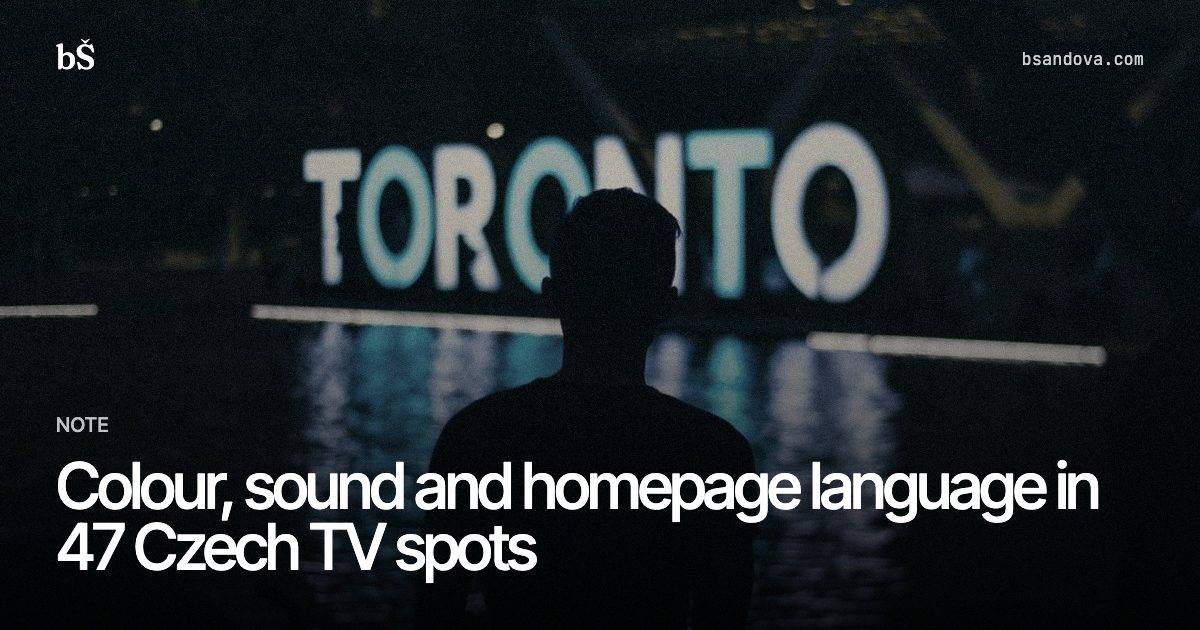
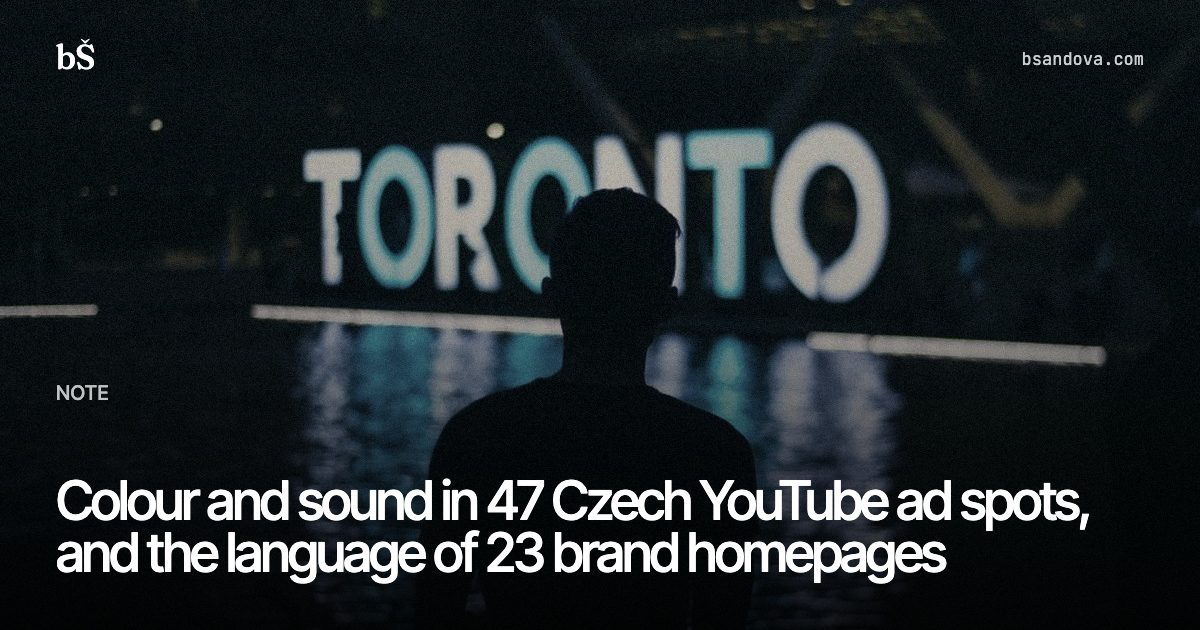
docs(site): brand reflection, FilmRunner and Atlantic corrections

Changed region(s): [[0.0308, 0.7238, 0.925, 0.9349], [0.0308, 0.6635, 0.0925, 0.6937], [0.0308, 0.6032, 0.0925, 0.6333]]

diff --git a/texts/brand-reflection.html b/texts/brand-reflection.html
@@ -3,10 +3,10 @@
 <head>
 <meta charset="utf-8">
 <meta name="viewport" content="width=device-width, initial-scale=1">
-<title>Colour and sound in 47 Czech YouTube ad spots, and the language of 24 brand homepages · Barbora Šandová</title>
-<meta name="description" content="A note indexing four exploratory studies of Czech advertising: the colour and sound of 47 ad spots from 13 brands' YouTube channels, the language of 24 brand homepages, and a view-count prediction checked late.">
-<meta property="og:title" content="Colour and sound in 47 Czech YouTube ad spots, and the language of 24 brand homepages">
-<meta property="og:description" content="A note indexing four exploratory studies of Czech advertising: the colour and sound of 47 ad spots from 13 brands' YouTube channels, the language of 24 brand homepages, and a view-count prediction checked late.">
+<title>Colour and sound in 47 Czech YouTube ad spots, and the language of 23 brand homepages · Barbora Šandová</title>
+<meta name="description" content="A note indexing four exploratory studies of Czech advertising: the colour and sound of 47 ad spots from 13 brands' YouTube channels, the language of 23 brand homepages, and a view-count prediction checked late.">
+<meta property="og:title" content="Colour and sound in 47 Czech YouTube ad spots, and the language of 23 brand homepages">
+<meta property="og:description" content="A note indexing four exploratory studies of Czech advertising: the colour and sound of 47 ad spots from 13 brands' YouTube channels, the language of 23 brand homepages, and a view-count prediction checked late.">
 <meta property="og:type" content="article">
 <meta property="og:image" content="https://bsandova.com/assets/og/brand-reflection.jpg">
 <meta property="og:image:width" content="1200">
@@ -37,7 +37,7 @@
 </style>
 
 <!-- ld --><link rel="alternate" type="application/atom+xml" title="Barbora Šandová" href="/feed.xml">
-<script type="application/ld+json">{"@context": "https://schema.org", "@type": "Article", "headline": "Colour and sound in 47 Czech YouTube ad spots, and the language of 24 brand homepages", "description": "A note indexing four exploratory studies of Czech advertising: the colour and sound of 47 ad spots from 13 brands' YouTube channels, the language of 24 brand homepages, and a view-count prediction checked late.", "url": "https://bsandova.com/texts/brand-reflection", "image": "https://bsandova.com/assets/og/brand-reflection.jpg", "dateModified": "2026-09-29T12:09:51+02:00", "author": {"@type": "Person", "name": "Barbora Šandová", "url": "https://bsandova.com/"}}</script><!-- /ld -->
+<script type="application/ld+json">{"@context": "https://schema.org", "@type": "Article", "headline": "Colour and sound in 47 Czech YouTube ad spots, and the language of 23 brand homepages", "description": "A note indexing four exploratory studies of Czech advertising: the colour and sound of 47 ad spots from 13 brands' YouTube channels, the language of 23 brand homepages, and a view-count prediction checked late.", "url": "https://bsandova.com/texts/brand-reflection", "image": "https://bsandova.com/assets/og/brand-reflection.jpg", "dateModified": "2026-09-29T12:09:51+02:00", "author": {"@type": "Person", "name": "Barbora Šandová", "url": "https://bsandova.com/"}}</script><!-- /ld -->
 </head>
 <body>
 <div class="top"><b><a href="../" aria-label="bŠ, bsandova.com, home">bŠ</a></b><nav><a href="../#work">Work</a><a href="../#works">All work</a><a href="../#about">About</a><a href="../ask/" class="ask-link">Ask</a><a href="../#contact">Contact</a></nav><span class="tr">advertising · brand reflection · 2026 · en</span></div>
@@ -45,13 +45,13 @@
 <article class="text">
 <header class="text-head">
   <p class="kicker">Note · 14 September 2026 · Czech advertising, four studies, spring 2026</p>
-  <h1>Colour and sound in 47 Czech YouTube ad spots, <em>and the language of 24 brand homepages</em></h1>
+  <h1>Colour and sound in 47 Czech YouTube ad spots, <em>and the language of 23 brand homepages</em></h1>
   <p class="deck">An index of four exploratory studies of Czech advertising from spring 2026, which measure the colour and sound of 47 ad spots from 13 brands' YouTube channels and the homepage language of the same market.</p>
   <dl class="facts">
     <div><dt>spots · brands · frames</dt><dd>47 · 13 · 2 251 <small>one frame per second</small></dd></div>
     <div><dt>colour: brand-led · between · world-led</dt><dd>16 · 20 · 11 <small>hue distance to the brand's anchor colour; hand-set cut-offs at 20° and 100°</small></dd></div>
     <div><dt>sound: voice-led · music-led</dt><dd>44 · 3 <small>speech, or non-speech sound, over half of runtime</small></dd></div>
-    <div><dt>homepages scraped</dt><dd>24 of 30 <small>6 blocked or empty</small></dd></div>
+    <div><dt>homepages scraped</dt><dd>23 of 30 <small>7 blocked or empty</small></dd></div>
   </dl>
 </header>
 <details class="tldr" open>
@@ -59,13 +59,13 @@
   <ul>
     <li>Measured against each brand's own anchor colour, 16 of 47 spots keep their dominant hue within 20° and 11 lie more than 100° away. Speech fills more than half the runtime in 44 of 47 spots (median 76 %).</li>
     <li>The colour groups rest on hand-set cut-offs and one hand-picked anchor colour per brand, and one brand, Albert, supplies 5 of the 11 spots beyond 100°; with a 90° cut-off that group is 13.</li>
-    <li>A view-count prediction was checked late: one claim is indeterminate and the other not supported.</li>
+    <li>A view-count prediction was checked at 119 days instead of the registered 30, so neither claim was tested at the registered window; over those 119 days the "coherent" Pilsner spot gained the fewest views, a descriptive count.</li>
     <li>Every number is a descriptive count on one corpus of YouTube uploads.</li>
     <li>The homepage map does not establish a shared register between brands.</li>
   </ul>
 </details>
 <dl class="meta">
-  <div><dt>published</dt><dd>14 September 2026 · updated 29 September 2026 · <a href="../changelog/#brand-reflection">version 2</a></dd></div>
+  <div><dt>published</dt><dd>14 September 2026 · updated 9 October 2026 · <a href="../changelog/#brand-reflection">version 3</a></dd></div>
   <div><dt>work since</dt><dd>April 2026</dd></div>
 </dl>
 <details class="meta-more">
@@ -74,7 +74,7 @@
   <div><dt>status</dt><dd>note</dd></div>
   <div><dt>data</dt><dd>47 spots from 13 brands' YouTube channels and the homepages of 30 Czech brands, both collected before 18 May 2026 (exact access dates not recorded); video and page text not redistributed; derived spot-level metrics (<code>spots.parquet</code>, <code>spots_audio.parquet</code>) CC BY 4.0 in the study repositories</dd></div>
   <div><dt>code</dt><dd><a href="https://github.com/sandovabarbora/brand-reflection-cz">brand-reflection-cz</a> <code>79ebebe</code>, <a href="https://github.com/sandovabarbora/color-fingerprint-cz">color-fingerprint-cz</a> <code>49d2614</code>, <a href="https://github.com/sandovabarbora/sound-fingerprint-cz">sound-fingerprint-cz</a> <code>5421429</code>, <a href="https://github.com/sandovabarbora/strategic-topography-cz">strategic-topography-cz</a> <code>17c8eb5</code> (MIT); the figures: <code>python3 tools/charts/brand_reflection.py</code> in the site repository</dd></div>
-  <div><dt>cite as</dt><dd>Šandová, B. (2026). <i>Colour and sound in 47 Czech YouTube ad spots, and the language of 24 brand homepages</i>. bsandova.com/texts/brand-reflection, version 2.</dd></div>
+  <div><dt>cite as</dt><dd>Šandová, B. (2026). <i>Colour and sound in 47 Czech YouTube ad spots, and the language of 23 brand homepages</i>. bsandova.com/texts/brand-reflection, version 3.</dd></div>
   <div><dt>licence</dt><dd>code MIT; text, figures and data CC BY 4.0</dd></div>
 </dl>
 </details>
@@ -96,7 +96,7 @@
   <img src="../assets/brand/03-voice-music.svg" alt="47 stacked bars of voice share and non-speech share sorted by non-speech share; three bars cross the 50 percent line." loading="lazy">
   <figcaption><b>fig. 2</b> · Voice share and non-speech share (music, effects and ambience) of runtime (%), one bar per spot, n = 47, sorted by non-speech share; dotted line at 50 %. No band. Recomputed from <code>spots_audio.parquet</code> (sound-fingerprint-cz, May 2026).</figcaption>
 </figure>
-<p>The homepage study scraped the title, description, first headings and first paragraphs of 30 brand homepages, of which 24 succeeded. The texts were turned into vectors with the language model <code>multilingual-e5-base</code>, projected onto a two-dimensional map with UMAP and grouped with K-means (k = 4). ČSOB, Česká spořitelna, Fio, Air Bank, Komerční banka, Generali, ČEZ and Škoda Auto fall into one cluster, but the words the study lists as setting it apart are <i>banka, škoda, čez, fio, česká</i>, brand and sector names (it does not say how those words were picked), so the cluster may reflect names more than tone of voice. The map's 54 points are the 24 homepages and 30 search-trend phrases, so it shows approximate neighbourhoods rather than distances. The study's own page is titled "Three templates", while its clustering uses k = 4<sup class="cite"><a href="#r7">7</a></sup>. A fourth piece, Spot Scorer, shows any spot's colour and audio metrics against its sector median<sup class="cite"><a href="#r8">8</a></sup>.</p>
+<p>The homepage study scraped the title, description, first headings and first paragraphs of 30 brand homepages, of which 23 returned text (the other 7 were blocked or empty). The texts were turned into vectors with the language model <code>multilingual-e5-base</code>, projected onto a two-dimensional map with UMAP and grouped with K-means into four clusters (k = 4 in the study's configuration; the docstring of its clustering module still says k = 6). ČSOB, Česká spořitelna, Fio, Air Bank, Komerční banka, Generali, ČEZ and Škoda Auto fall into one cluster, but the words the study lists as setting it apart are <i>banka, škoda, čez, fio, česká</i>, brand and sector names (it does not say how those words were picked), so the cluster may reflect names more than tone of voice. The map's 49 points are the 23 homepages and 26 search-trend phrases, so it shows approximate neighbourhoods rather than distances. The study's own page is titled "Three templates", while its clustering produces four clusters<sup class="cite"><a href="#r7">7</a></sup>. A fourth piece, Spot Scorer, shows any spot's colour and audio metrics against its sector median<sup class="cite"><a href="#r8">8</a></sup>.</p>
 <figure data-chart="../assets/brand/charts.json#two-commitments">
   <p class="ch-head">Exploratory: only Pilsner's Alfons is both far from its brand colour and mostly non-speech; Albert's five spots are far from theirs and mostly speech.</p>
   <img src="../assets/brand/01-two-commitments.svg" alt="Scatter of 47 spots: hue distance on the x axis, music share on the y axis; Pilsner Urquell alone in the top right, Albert's five spots at the far right and bottom." loading="lazy">
@@ -116,12 +116,12 @@
 <tr><td>Albert · <i>Gourmet receptury</i></td><td>bottom</td><td class="n">272 017</td><td class="n">273 381</td><td class="n">+1 364</td></tr>
 <tr><td>Vodafone · <i>Nejlepší pevný internet</i></td><td>bottom</td><td class="n">509 694</td><td class="n">511 540</td><td class="n">+1 846</td></tr>
 </tbody></table>
-<p>The Lidl spot was made private before the check. Claim A is indeterminate: the check ran at 119 days instead of the registered 30, so the 30-day increments were never measured. The two measurable coherent spots gained 3 813 views against 3 210 for the muddled pair, and Lidl's missing increment could only add to the coherent side, but over the wrong window. Claim B is not supported: Pilsner gained 44 views and ranks last, whatever the Lidl figure would have been. The check output is not committed (private; not verifiable). As the file itself anticipated, view counts reflect much more than the spot<sup class="cite"><a href="#r10">10</a></sup>.</p>
+<p>The Lidl spot was made private before the check. Claim A was not tested at the registered window: the check ran at 119 days instead of the registered 30, so the 30-day increments were never measured (version 2 labelled it indeterminate). The two measurable coherent spots gained 3 813 views against 3 210 for the muddled pair, and Lidl's missing increment could only add to the coherent side, but over the wrong window. Claim B was not tested at the registered window either; descriptively, over the 119 days Pilsner gained 44 views and ranks last, whatever the Lidl figure would have been (version 2 labelled it not supported). The check output is not committed (private; not verifiable). As the file itself anticipated, view counts reflect much more than the spot<sup class="cite"><a href="#r10">10</a></sup>.</p>
 </section>
 
 <section>
 <h2>What these studies do not show</h2>
-<p>The corpus is selected by what 13 brands upload to YouTube, not by television airtime; two spots were added by hand, and some McDonald's uploads carry Slovak-language titles (the audio language was not checked). Eight brands supply 40 of the 47 spots, so a single brand can dominate a group, as Albert does with 5 of the 11 world-led spots. Sampling at one frame per second misses flash cuts, K-means with k = 5 is a choice, anchor colours are one hand-picked value per brand, and hue distance is poorly defined for near-grey palettes such as AAA Auto's. None of the counts carries an interval. The homepage map rests on 24 of 30 pages and 54 points, and neither Spot Scorer nor any metric here has been validated against an outcome<sup class="cite"><a href="#r5">5</a></sup><sup class="cite"><a href="#r7">7</a></sup>.</p>
+<p>The corpus is selected by what 13 brands upload to YouTube, not by television airtime; two spots were added by hand, and some McDonald's uploads carry Slovak-language titles (the audio language was not checked). Eight brands supply 40 of the 47 spots, so a single brand can dominate a group, as Albert does with 5 of the 11 world-led spots. Sampling at one frame per second misses flash cuts, K-means with k = 5 is a choice, anchor colours are one hand-picked value per brand, and hue distance is poorly defined for near-grey palettes such as AAA Auto's. None of the counts carries an interval. The homepage map rests on 23 of 30 pages and 49 points, and neither Spot Scorer nor any metric here has been validated against an outcome<sup class="cite"><a href="#r5">5</a></sup><sup class="cite"><a href="#r7">7</a></sup>.</p>
 </section>
 
 <section class="refs" id="refs">
@@ -131,9 +131,9 @@
 <li id="r2">Labrecque, L. I. and Milne, G. R. (2012). Exciting red and competent blue: the importance of color in marketing. <i>Journal of the Academy of Marketing Science</i> 40(5), 711–727. <a href="https://doi.org/10.1007/s11747-010-0245-y">doi.org/10.1007/s11747-010-0245-y</a>. Accessed 29 September 2026.</li>
 <li id="r3">Bruner, G. C. (1990). Music, mood, and marketing. <i>Journal of Marketing</i> 54(4), 94–104. <a href="https://doi.org/10.1177/002224299005400408">doi.org/10.1177/002224299005400408</a>. Accessed 29 September 2026.</li>
 <li id="r4">Romaniuk, J. (2018). <i>Building Distinctive Brand Assets</i>. Oxford University Press.</li>
-<li id="r5">Šandová, B. (2026). <i>Brand color or world color: a field study of Czech TV advertising</i>. <a href="https://sandovabarbora.github.io/color-fingerprint-cz/">sandovabarbora.github.io/color-fingerprint-cz</a>; code <a href="https://github.com/sandovabarbora/color-fingerprint-cz">color-fingerprint-cz</a>, commit <code>49d2614</code> (README: corpus rules, 1 fps, K-means k = 5 in CIE-LAB, anchors in <code>config/brands.yaml</code>, limitations). Accessed 29 September 2026.</li>
-<li id="r6">Šandová, B. (2026). <i>Voice or music: a field study of Czech TV advertising's audio</i>. <a href="https://sandovabarbora.github.io/sound-fingerprint-cz/">sandovabarbora.github.io/sound-fingerprint-cz</a>; code <a href="https://github.com/sandovabarbora/sound-fingerprint-cz">sound-fingerprint-cz</a>, commit <code>5421429</code>. Accessed 29 September 2026.</li>
-<li id="r7">Šandová, B. (2026). <i>How many Czech brand templates are there? Three.</i> <a href="https://sandovabarbora.github.io/strategic-topography-cz/">sandovabarbora.github.io/strategic-topography-cz</a>; code <a href="https://github.com/sandovabarbora/strategic-topography-cz">strategic-topography-cz</a>, commit <code>17c8eb5</code> (trafilatura, <code>intfloat/multilingual-e5-base</code>, UMAP n_neighbors 10, min_dist 0.3, cosine; 24 of 30 homepages). Accessed 29 September 2026.</li>
+<li id="r5">Šandová, B. (2026). <i>Brand color or world color: a field study of Czech TV advertising</i> (YouTube uploads, not broadcast). <a href="https://sandovabarbora.github.io/color-fingerprint-cz/">sandovabarbora.github.io/color-fingerprint-cz</a>; code <a href="https://github.com/sandovabarbora/color-fingerprint-cz">color-fingerprint-cz</a>, commit <code>49d2614</code> (README: corpus rules, 1 fps, K-means k = 5 in CIE-LAB, anchors in <code>config/brands.yaml</code>, limitations). Accessed 29 September 2026.</li>
+<li id="r6">Šandová, B. (2026). <i>Voice or music: a field study of Czech TV advertising's audio</i> (YouTube uploads, not broadcast). <a href="https://sandovabarbora.github.io/sound-fingerprint-cz/">sandovabarbora.github.io/sound-fingerprint-cz</a>; code <a href="https://github.com/sandovabarbora/sound-fingerprint-cz">sound-fingerprint-cz</a>, commit <code>5421429</code>. Accessed 29 September 2026.</li>
+<li id="r7">Šandová, B. (2026). <i>How many Czech brand templates are there? Three.</i> <a href="https://sandovabarbora.github.io/strategic-topography-cz/">sandovabarbora.github.io/strategic-topography-cz</a>; code <a href="https://github.com/sandovabarbora/strategic-topography-cz">strategic-topography-cz</a>, commit <code>17c8eb5</code> (trafilatura, <code>intfloat/multilingual-e5-base</code>, UMAP n_neighbors 10, min_dist 0.3, cosine; 23 of 30 homepages with text, 26 trend phrases, k = 4 in <code>src/config.py</code>). Accessed 29 September 2026.</li>
 <li id="r8">Šandová, B. (2026). <i>Spot Scorer</i>. <a href="https://sandovabarbora.github.io/spot-scorer/">sandovabarbora.github.io/spot-scorer</a>; code <a href="https://github.com/sandovabarbora/spot-scorer">spot-scorer</a>, commit <code>f7c2c49</code>. Accessed 29 September 2026.</li>
 <li id="r9">Šandová, B. (2026). <a href="https://github.com/sandovabarbora/brand-reflection-cz/blob/main/PREDICTIONS.md">PREDICTIONS.md</a>, committed at <code>fe5bb00</code> on 18 May 2026 (self-timestamped), with <a href="https://github.com/sandovabarbora/brand-reflection-cz/blob/main/BASELINE_2026-05-18.txt">BASELINE_2026-05-18.txt</a>, the view counts at prediction time. Accessed 29 September 2026.</li>
 <li id="r10">Check run on 14 September 2026, 19:52 UTC: <code>yt-dlp --skip-download --print "%(id)s %(view_count)s"</code> on the five URLs; Lidl <code>Oz047619h6U</code> returned "Private video". The output is not committed to the repository (private; not verifiable).</li>

diff --git a/texts/filmrunner.html b/texts/filmrunner.html
@@ -4,7 +4,7 @@
 <meta charset="utf-8">
 <meta name="viewport" content="width=device-width, initial-scale=1">
 <title>FilmRunner, an offline call sheet · Barbora Šandová</title>
-<meta name="description" content="A film-production platform cut down to its call-sheet module: a web app with ordered revisions that crews can open without signal. Its data model, the first build and the code review that changed it, the second build and its nine architecture decision records, and what has not yet been tested.">
+<meta name="description" content="A film-production platform cut down to its call-sheet module: a web app with ordered revisions that crews can open without signal. Its data model, the first build and the review findings that changed it, the second build and its nine architecture decision records, and what has not yet been tested.">
 <meta property="og:title" content="FilmRunner, an offline call sheet">
 <meta property="og:description" content="A film-production platform cut down to its call-sheet module, a web app crews can open without signal. No pilot with a working crew has run yet.">
 <meta property="og:type" content="article">
@@ -27,7 +27,7 @@
 </style>
 
 <!-- ld --><link rel="alternate" type="application/atom+xml" title="Barbora Šandová" href="/feed.xml">
-<script type="application/ld+json">{"@context": "https://schema.org", "@type": "Article", "headline": "FilmRunner, an offline call sheet", "description": "A film-production platform cut down to its call-sheet module: a web app with ordered revisions that crews can open without signal. Its data model, the first build and the code review that changed it, the second build and its nine architecture decision records, and what has not yet been tested.", "url": "https://bsandova.com/texts/filmrunner", "image": "https://bsandova.com/assets/og/filmrunner.jpg", "dateModified": "2026-10-03T12:00:00+02:00", "author": {"@type": "Person", "name": "Barbora Šandová", "url": "https://bsandova.com/"}}</script><!-- /ld -->
+<script type="application/ld+json">{"@context": "https://schema.org", "@type": "Article", "headline": "FilmRunner, an offline call sheet", "description": "A film-production platform cut down to its call-sheet module: a web app with ordered revisions that crews can open without signal. Its data model, the first build and the review findings that changed it, the second build and its nine architecture decision records, and what has not yet been tested.", "url": "https://bsandova.com/texts/filmrunner", "image": "https://bsandova.com/assets/og/filmrunner.jpg", "dateModified": "2026-10-03T12:00:00+02:00", "author": {"@type": "Person", "name": "Barbora Šandová", "url": "https://bsandova.com/"}}</script><!-- /ld -->
 </head>
 <body>
 <div class="top"><b><a href="../" aria-label="bŠ, bsandova.com, home">bŠ</a></b><nav><a href="../#work">Work</a><a href="../#works">All work</a><a href="../#about">About</a><a href="../ask/" class="ask-link">Ask</a><a href="../#contact">Contact</a></nav><span class="tr">note · filmrunner · 2026 · en</span></div>
@@ -38,7 +38,7 @@
   <h1>FilmRunner, an offline <em>call sheet</em></h1>
   <p class="deck">A film-production platform cut down to its call-sheet module, a web app with ordered revisions that crews can open without signal; no pilot with a working crew has run yet.</p>
   <dl class="facts">
-    <div><dt>code review, first build</dt><dd>2 critical <small>fail-open findings, plus 4 high-severity · recorded in the fix commit of 13 May 2026 · administrative count, private; not verifiable</small></dd></div>
+    <div><dt>review findings, first build</dt><dd>2 critical <small>fail-open findings, plus 4 high-severity · from a review of unknown origin, recorded in a commit message of 13 May 2026 · administrative count, private; not verifiable</small></dd></div>
     <div><dt>second build</dt><dd>9 ADRs <small>architecture decision records in docs/adr, numbered ADR-001 to ADR-008 with 001 used twice · administrative count, private; not verifiable</small></dd></div>
   </dl>
 </header>
@@ -53,8 +53,8 @@
   </ul>
 </details>
 <dl class="meta">
-  <div><dt>published</dt><dd>14 September 2026 · updated 3 October 2026 · <a href="../changelog/#filmrunner">version 3</a></dd></div>
-  <div><dt>work since</dt><dd>January 2022</dd></div>
+  <div><dt>published</dt><dd>14 September 2026 · updated 9 October 2026 · <a href="../changelog/#filmrunner">version 4</a></dd></div>
+  <div><dt>work since</dt><dd>January 2022, by the author's account (private; not verifiable); the first build's repository history begins on 17 January 2026</dd></div>
 </dl>
 <details class="meta-more">
   <summary>About this note</summary>
@@ -62,7 +62,7 @@
   <div><dt>status</dt><dd>note</dd></div>
   <div><dt>data</dt><dd>none; the demo bundles one sample shoot day</dd></div>
   <div><dt>code</dt><dd>sandovabarbora/filmrunner, commit a9012db, 28 September 2026 (private; not verifiable); live demo public on GitHub Pages</dd></div>
-  <div><dt>cite as</dt><dd>Šandová, B. (2026). <i>FilmRunner, an offline call sheet</i>. bsandova.com/texts/filmrunner, version 3.</dd></div>
+  <div><dt>cite as</dt><dd>Šandová, B. (2026). <i>FilmRunner, an offline call sheet</i>. bsandova.com/texts/filmrunner, version 4.</dd></div>
   <div><dt>licence</dt><dd>text and figures CC BY 4.0; the FilmRunner code is private and not licensed for reuse</dd></div>
 </dl>
 </details>
@@ -76,13 +76,13 @@
 
 <section>
 <h2>The first build and why it was set aside</h2>
-<p>The author of this note is FilmRunner's founder, and every source cited below is her own private record. The first build, whose repository history runs from 17 January to 31 May 2026, was production management for mid-budget films: script import, an AI-drafted breakdown (the list of what each scene needs), a stripboard schedule (scenes ordered into shoot days) and the published call sheet, with company single sign-on, a data processing agreement, error reporting that strips personal data and Stripe, Twilio and Frame.io integrations around it. A code review of one day's commits, recorded in the commit of 13 May 2026 that fixed its findings, reported two critical fail-open defects, flaws that grant access when a check fails or a setting is missing, and four high-severity findings fixed in the same commit; the record does not name the reviewer. A development-mode check compared the environment against "production", so a blank variable counted as development, and it was changed to an explicit list of development environments. Automatic account creation through single sign-on trusted the browser's claim about how the user had signed in, and it now checks the provider and a verified e-mail on the server<sup class="cite"><a href="#r2">2</a></sup>. On 14 September 2026 the author restarted around the call sheet alone, because the old repository had "accumulated surface area without a validated wedge"<sup class="cite"><a href="#r3">3</a></sup>.</p>
+<p>The author of this note is FilmRunner's founder, and every source cited below is her own private record. The first build, whose repository history runs from 17 January to 31 May 2026, was production management for mid-budget films: script import, an AI-drafted breakdown (the list of what each scene needs), a stripboard schedule (scenes ordered into shoot days) and the published call sheet, with company single sign-on, a data processing agreement, error reporting that strips personal data and Stripe, Twilio and Frame.io integrations around it. A commit message of 13 May 2026 records two critical fail-open defects, flaws that grant access when a check fails or a setting is missing, and four high-severity findings from a review of unknown origin, all fixed in that commit (private; not verifiable); the record does not say who or what made the review. A development-mode check compared the environment against "production", so a blank variable counted as development, and it was changed to an explicit list of development environments. Automatic account creation through single sign-on trusted the browser's claim about how the user had signed in, and it now checks the provider and a verified e-mail on the server<sup class="cite"><a href="#r2">2</a></sup>. On 14 September 2026 the author restarted around the call sheet alone, because the old repository had "accumulated surface area without a validated wedge"<sup class="cite"><a href="#r3">3</a></sup>.</p>
 </section>
 
 <section>
 <h2>The second build and what it lacks</h2>
 <p>The second build keeps only the call sheet. The back end is FastAPI, SQLAlchemy 2.0, Alembic and PostgreSQL, hosted on Fly.io in Frankfurt with Supabase used as plain Postgres; the front end is a React, Vite and TypeScript progressive web app, a web page that can be installed and run offline, which caches the last sheet in the browser. Sign-in uses Supabase Auth with a code or link sent by e-mail, and the API enforces each production's roles. Nine decision records cover the back-end and front-end stacks, hosting, the editor, sign-in, roles, location services, web push and rate limits on public endpoints<sup class="cite"><a href="#r3">3</a></sup>. The <a href="https://sandovabarbora.github.io/filmrunner/">live demo</a> serves a sample shoot day, and the <a href="https://sandovabarbora.github.io/filmrunner/editor.html">editor</a> is the assistant director's side of the same sheet. The repository's automated browser tests check that a sheet loaded once online still renders from the cache, marked as offline with the time it was saved, when its data request then fails<sup class="cite"><a href="#r6">6</a></sup>. That is a headless browser in a test, not a check on crews' phones, and no device test is recorded.</p>
-<p>StudioBinder, SetHero, Movie Magic Scheduling, Yamdu and Croogloo already issue call sheets. The project's own desk research, built mostly from vendor pages and search snippets, could confirm offline viewing only for Movie Magic's exported PDF<sup class="cite"><a href="#r4">4</a></sup>. No pilot with an assistant director outside the project has run: the first is blocked on the author's own steps as of 28 September 2026, so there is no timed test or count of revisions handled on a real shoot day<sup class="cite"><a href="#r5">5</a></sup>.</p>
+<p>StudioBinder, SetHero, Movie Magic Scheduling, Yamdu and Croogloo already issue call sheets. The project's own desk research, built mostly from vendor pages and search snippets, could confirm offline viewing only for Movie Magic's exported PDF<sup class="cite"><a href="#r4">4</a></sup>; for the other four tools offline viewing is not confirmed either way. No pilot with an assistant director outside the project has run: the first is blocked on the author's own steps as of 28 September 2026, so there is no timed test or count of revisions handled on a real shoot day<sup class="cite"><a href="#r5">5</a></sup>.</p>
 </section>
 
 <section class="refs" id="refs">

diff --git a/atlantic/index.html b/atlantic/index.html
@@ -60,7 +60,7 @@ canvas{display:block;width:100%;height:auto;margin:1rem 0 .25rem}
   <div class="ctl">
     <button id="play">▶ play</button>
     <label>spot <select id="spot"><option value="ericeira">Ericeira</option><option value="peniche">Peniche</option><option value="sagres">Sagres</option></select></label>
-    <label>seconds per day <input id="spd" type="range" min="0.4" max="2" step="0.1" value="0.9"><b id="spdv">0.9 · 1:24</b></label>
+    <label>seconds per day <input id="spd" type="range" min="0.4" max="2" step="0.1" value="0.9"><b id="spdv">0.9</b></label>
     <span class="stems" id="stems"></span>
   </div>
   <canvas id="c" width="1200" height="260"></canvas>
@@ -77,12 +77,13 @@ canvas{display:block;width:100%;height:auto;margin:1rem 0 .25rem}
 <section>
 <h2>How the sea is mapped</h2>
 <table class="tbl"><thead><tr><th>the sea</th><th>the sound</th><th>range in the data</th></tr></thead><tbody>
-<tr><td>swell height, daily max</td><td>note of the pad, D minor pentatonic over two octaves; louder as it grows</td><td>0.46 – 2.76 m</td></tr>
-<tr><td>mean period</td><td>pulse rate inside the bar: a 10 s groundswell pulses slowly, a 4 s windchop chatters</td><td>3.5 – 10 s</td></tr>
-<tr><td>mean wind</td><td>filtered noise, level with speed; offshore (E ± 60°) opens the filter, onshore closes it</td><td>5 – 26 km/h</td></tr>
-<tr><td>swell direction</td><td>stereo position: north-west left, south-west right</td><td>230 – 340°</td></tr>
+<tr><td>swell height, daily max</td><td>note of the pad, D minor pentatonic over two octaves, mapped from 0.4 to 2.8 m (heights outside are clamped to the lowest or highest note); louder as it grows, up to 2.8 m</td><td id="r-h">…</td></tr>
+<tr><td>mean period</td><td>pulse rate inside the bar: a 10 s groundswell pulses slowly, a 4 s windchop chatters</td><td id="r-p">…</td></tr>
+<tr><td>mean wind</td><td>filtered noise, level with speed up to 26 km/h (stronger wind is clamped to the loudest level); offshore (E ± 60°) opens the filter, onshore closes it</td><td id="r-w">…</td></tr>
+<tr><td>swell direction</td><td>stereo position from 230° (south-west, full left) to 340° (north-north-west, full right); directions outside are clamped to the edge</td><td id="r-d">…</td></tr>
 <tr><td>the surfable rule</td><td>a bell on every day with height 1.0–2.5 m, period ≥ 8 s, wind ≤ 25 km/h or offshore</td><td>the verifier's rule, unchanged</td></tr>
 </tbody></table>
+<p><small>Ranges in the data are computed from <a href="../surf/data/analysis.json">analysis.json</a> for the selected spot each time the page loads.</small></p>
 <p>The mapping is the whole piece. There is no melody written over it and no day is skipped; a flat week sounds like a flat week. The same rule that decides <i>surfable</i> on the <a href="../surf/">verification page</a> decides the bell here, and the same file feeds both, so if the collector misses a morning the bar is silent rather than invented. Delayed All the Time did this for Prague's buses; this is the same idea pointed at the sea, and the reason it was built: some things in data you hear before you see them, and a swell that holds for three days is one of them.</p>
 </section>
 
@@ -91,7 +92,7 @@ canvas{display:block;width:100%;height:auto;margin:1rem 0 .25rem}
 <ol>
 <li id="r1">Šandová, B. (2026): <a href="../texts/forecast-verification">Not worth the flight</a>, the surf forecast verification: collector, analysis file, the surfable rule (height 1.0–2.5 m, mean period ≥ 8 s, wind ≤ 25 km/h or offshore E ± 60°).</li>
 <li id="r2">Open-Meteo Marine Weather API, MFWAM analysis (lead 0), daily aggregates over 06–20 UTC per spot; Open-Meteo Forecast API for wind. Fetched daily by <code>surf/collect.py</code>.</li>
-<li id="r3">Šandová, B. (2025): <a href="../texts/delayed">Delayed All the Time. On Time, Occasionally.</a>, the sonification this one follows: parameter-mapping synthesis in the Web Audio API, no server, no samples.</li>
+<li id="r3">Šandová, B. (2026): <a href="../texts/delayed">Delayed All the Time. On Time, Occasionally.</a>, the sonification this one follows: parameter-mapping synthesis in the Web Audio API, no server, no samples.</li>
 </ol>
 </section>
 <footer class="text-foot"><p class="back"><a href="../#works">← projects</a> · <a href="../surf/">verification</a></p></footer>
@@ -119,6 +120,9 @@ canvas{display:block;width:100%;height:auto;margin:1rem 0 .25rem}
     el('f-go').innerHTML = `${go.length} <small>${go.map(d=>d.day.slice(5)).join(' · ')||'none yet'}</small>`;
     el('f-max').innerHTML = `${mx.swell_max} m <small>${mx.day} · period ${mx.period_mean} s</small>`;
     el('spdv').textContent = `${spd.toFixed(1)} · ${fmt(ds.length*spd)}`;
+    const rng = (k, dp, u) => { const x = ds.map(r=>r[k]).filter(v=>v!=null); return x.length ? `${Math.min(...x).toFixed(dp)} – ${Math.max(...x).toFixed(dp)} ${u}` : '—'; };
+    el('r-h').textContent = rng('swell_max', 2, 'm'); el('r-p').textContent = rng('period_mean', 1, 's');
+    el('r-w').textContent = rng('wind_mean', 0, 'km/h'); el('r-d').textContent = rng('dir_mean', 0, '°');
   }
 
   // --- audio -------------------------------------------------------------

diff --git a/cv/index.html b/cv/index.html
@@ -157,7 +157,7 @@
       <li><a href="../ask/" data-path="/ask/">Ask the site</a>, packaged as <a href="../texts/sitewitness" data-path="/texts/sitewitness">sitewitness</a> — an agent over this site's texts and data whose five trust rules are enforced in code; 47 tests; 29 of 30 on the final golden set, matching the previous version.</li>
       <li><a href="../texts/hockey" data-path="/texts/hockey">Player Pool Atlas · hockey</a> and <a href="../texts/football" data-path="/texts/football">· football</a> — public atlases of the Czech football and hockey player pools against peer nations, rebuilt from committed data snapshots; football league strength estimated from 2 125 league movers in PyMC.</li>
       <li><a href="../texts/prague-measured" data-path="/texts/prague-measured">Prague, measured</a> — a series of five studies of Prague from its open data: Part 1, <a href="../texts/prague-council" data-path="/texts/prague-council">Do Prague's councillors vote against less, term after term?</a>; Part 2, <a href="../texts/prague-rings" data-path="/texts/prague-rings">Why do Prague's housing estates vote ANO?</a>; Part 3, <a href="../texts/prague-districts" data-path="/texts/prague-districts">Does a district get more city money when its mayor's party joins City Hall?</a>; Part 4, <a href="../texts/prague-housing" data-path="/texts/prague-housing">How long does a Prague flat take, from permit to completion?</a>; Part 5, <a href="../texts/prague-parking" data-path="/texts/prague-parking">How many kerb spaces have longer cars cost Prague?</a>, from 16 874 paid-zone segments, 2.5 million EEA registrations and the national vehicle register.</li>
-      <li><a href="../texts/brand-reflection" data-path="/texts/brand-reflection">Colour and sound in 47 Czech YouTube ad spots, and the language of 24 brand homepages</a> — four exploratory studies of Czech advertising.</li>
+      <li><a href="../texts/brand-reflection" data-path="/texts/brand-reflection">Colour and sound in 47 Czech YouTube ad spots, and the language of 23 brand homepages</a> — four exploratory studies of Czech advertising.</li>
       <li>Tools on PyPI: <a href="../texts/sitewitness" data-path="/texts/sitewitness">sitewitness</a> (a site Q&amp;A agent whose rules are enforced in code), <a href="../texts/cutover" data-path="/texts/cutover">cutover</a> (checks that a table migration changed nothing), <a href="../texts/quotecheck" data-path="/texts/quotecheck">quotecheck</a> (is this quotation really in the source), quaesitor-zero.</li>
       <li><a href="../texts/forecast-verification" data-path="/texts/forecast-verification">Forecast verification</a> for surf at Ericeira and weather in Prague (protocol, no results yet), <a href="../atlantic/" data-path="/atlantic/">a sonification</a> and <a href="../status/" data-path="/status/">a status page</a> for the jobs behind them; <a href="../texts/second-brain" data-path="/texts/second-brain">a 739-page wiki an agent keeps</a>.</li>
     </ul>

diff --git a/docs/changelogs/brand-reflection.html b/docs/changelogs/brand-reflection.html
@@ -1,4 +1,5 @@
 <ul>
+<li>9 October 2026, version 3, following a model-based review after publication: the homepage study's figures now match the commit cited (<code>17c8eb5</code>, <code>data/processed/</code>): 23 of 30 homepages returned text (7 blocked or empty), not 24 of 30, and its map has 49 points (23 homepages and 26 trend phrases), not 54; the title changes accordingly from "…the language of 24 brand homepages" to "…the language of 23 brand homepages". The clustering's k is stated from the code: k = 4 in <code>src/config.py</code>, four clusters, while the module's docstring says k = 6 and the study's page is titled "Three templates". References 5 and 6 are marked as YouTube uploads, not broadcast. The view-count prediction is no longer given registered labels: claim A was not tested at the registered 30-day window (it read "indeterminate"), and claim B is reported as a descriptive count over 119 days (it read "not supported"). No other number changed.</li>
 <li>6 October 2026: charts restyled with a headline and notes at key points; numbers unchanged.</li>
 <li>5 October 2026: work dates added. No number changed.</li>
 <li>3 October 2026, after an audit: the frame count is corrected from 2 351 to 2 251 (sum of frames in <code>spots.parquet</code>). Withdrawn: "the spots' pictures cover the whole colour wheel" (only distance to each brand's anchor was measured), "soundtracks almost all speech" (median speech share 76 %; 44 of 47 above half) and the 90° line's label "reads as a different colour". Weakened: the "music" share is now described as non-speech sound including effects; tempo is now caveated like key; claim A's indeterminacy now rests on the window alone, since Lidl's missing increment could not reverse its direction. Corrected: Albert's range from 150–178° to 151–178°, and its 88 % speech is stated as a mean (73–100 %). Added: the two hand-added spots and the 14.5-second Lidl spot, Slovak-language titles, the prediction file's mismatch with the metrics (Albert 174° against 151°, Vodafone 15° against 1°), what the 54 map points are, that the study does not say how it picked the words that set its cluster apart, short glosses of the methods, the anchor and Albert caveats in the short version, and the registered prediction in the opening. Retitled from "Colour, sound and homepage language in 47 Czech TV spots"; reference 7 now carries its page's title. No other number changed.</li>

diff --git a/docs/changelogs/filmrunner.html b/docs/changelogs/filmrunner.html
@@ -1,4 +1,5 @@
 <ul>
+<li>9 October 2026, version 4, following a model-based review after publication: the review of the first build is now described as what the record shows, a commit message of 13 May 2026 recording two critical and four high-severity findings from a review of unknown origin (private; not verifiable), not as "a code review"; "work since" (January 2022) now says it rests on the author's account (private; not verifiable) and that the first build's repository history begins on 17 January 2026; offline viewing in the other four call-sheet tools is now stated as not confirmed either way. No number changed.</li>
 <li>5 October 2026: work dates added. No number changed.</li>
 <li>14 September 2026: first published as "The living call sheet".</li>
 <li>29 September 2026: rewritten as a note and retitled. Removed "open source" from the kicker, since the repository is private. Corrected the number of architecture decision records from five to nine, as in the repository's <code>docs/adr/</code> at commit a9012db, and listed them. Replaced "an independent security review" with what the record shows: a code review dated 13 May 2026 whose reviewer is not named, with two critical and four high-severity findings. Dated the first build to its repository history (17 January to 31 May 2026) in place of "2025–2026". Removed the unsourced crew size of "50 to 200", the "5–6 am" call times (now "early in the morning", as the design notes give no source), the first-person deck, the facts card on the studio-readiness track, and the paragraph on how the company is run. Added why the first build was set aside, prior tools, the absence of a pilot, and marked private material as not verifiable.</li>
